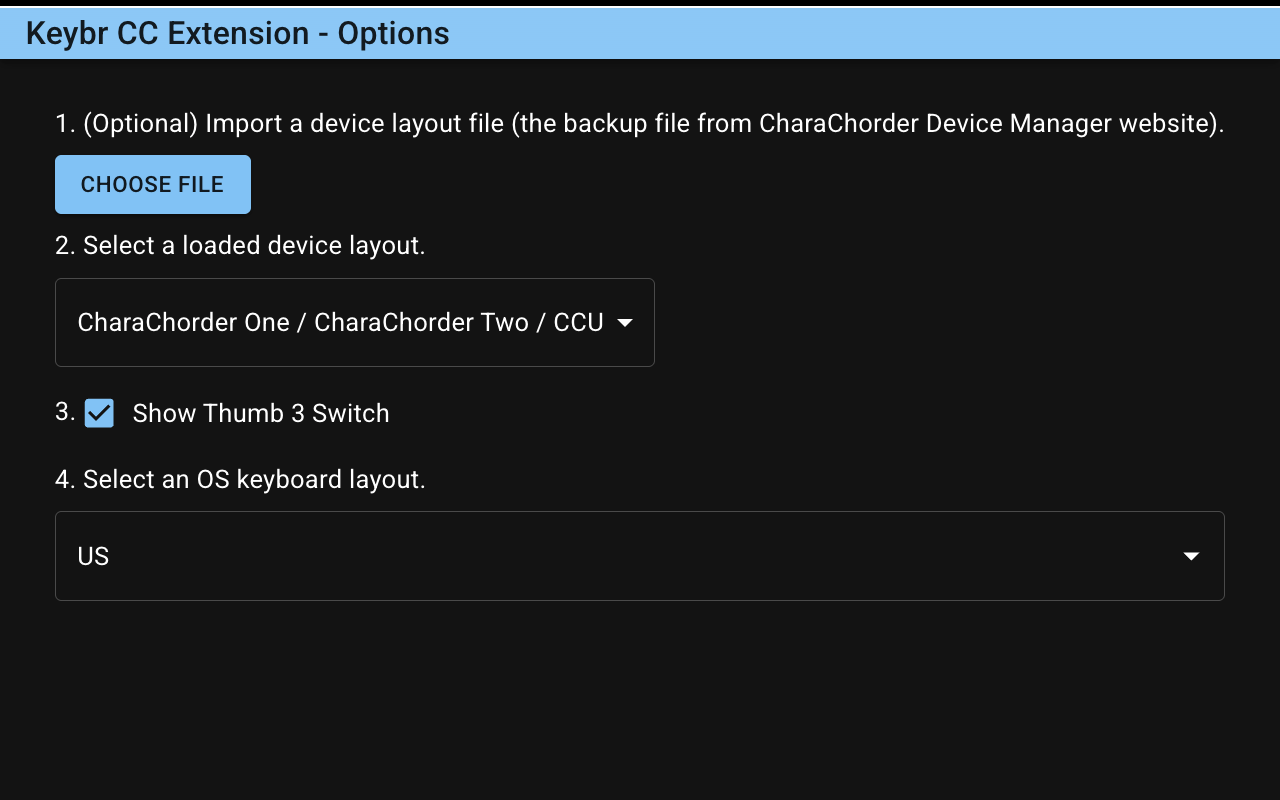
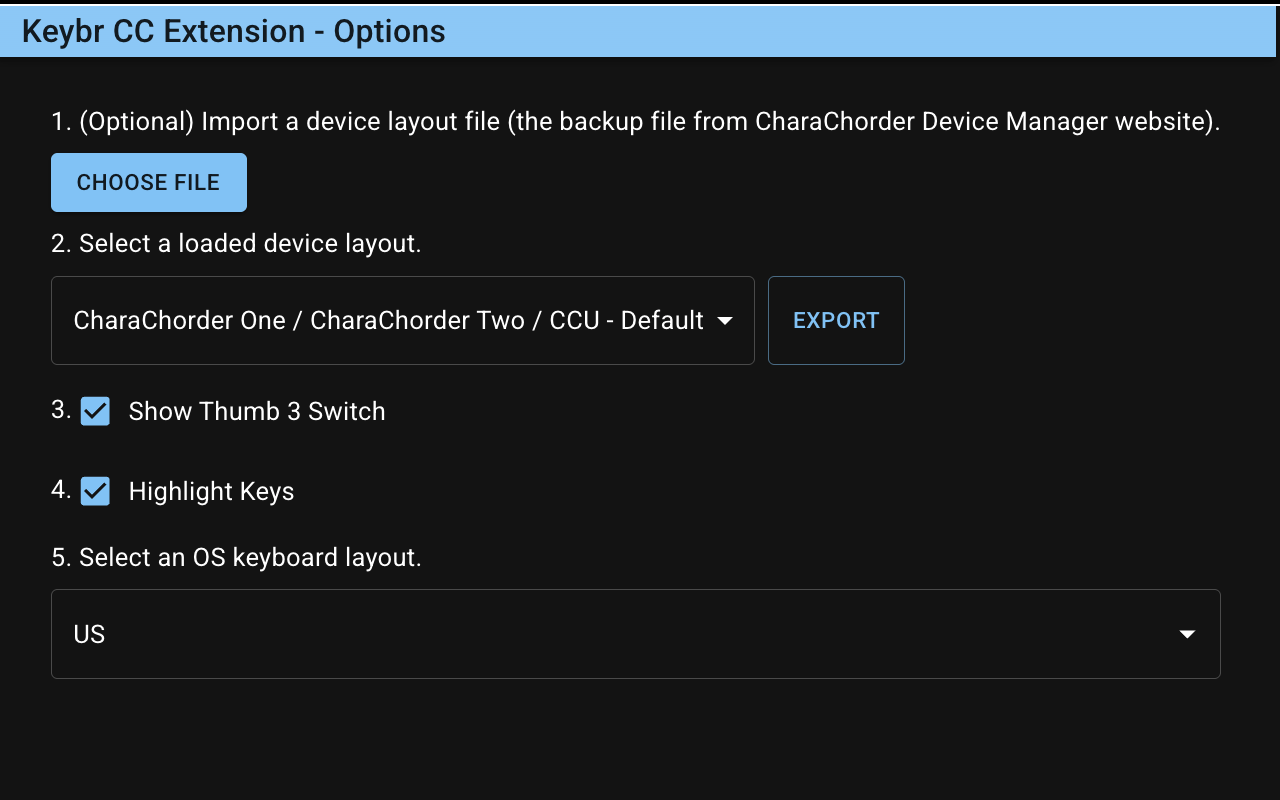
chore: bump version to 8.0

diff --git a/CHANGELOG.md b/CHANGELOG.md
@@ -1,6 +1,6 @@
 # Changelog
 
-## Unreleased
+## [8.0](https://gitlab.com/andy23512/keybr-cc-extension/-/tags/8.0)
 
 - Fix right space doesn't have key label and highlight bug
 - Add single hand device layouts

diff --git a/README.md b/README.md
@@ -22,7 +22,7 @@ An unofficial browser extension that displays the layout of CharaChorder 3D inpu
 
 With this extension, users can familiarize themselves with the layouts of CharaChorder 3D input devices directly on Keybr.
 
-After installation, click the extension icon to open an option page, where you can import a device layout file, choose which device layout to display, toggle the thumb-3 switch, and choose an OS keyboard layout.
+After installation, click the extension icon to open an option page, where you can import a device layout file, choose which device layout to display, toggle the thumb-3 switch, toggle key highlighting, and choose an OS keyboard layout.
 
 Clicking the settings button on the layout enters edit mode, allowing you to adjust its position, size, and transparency by dragging, resizing, and scrolling.
 